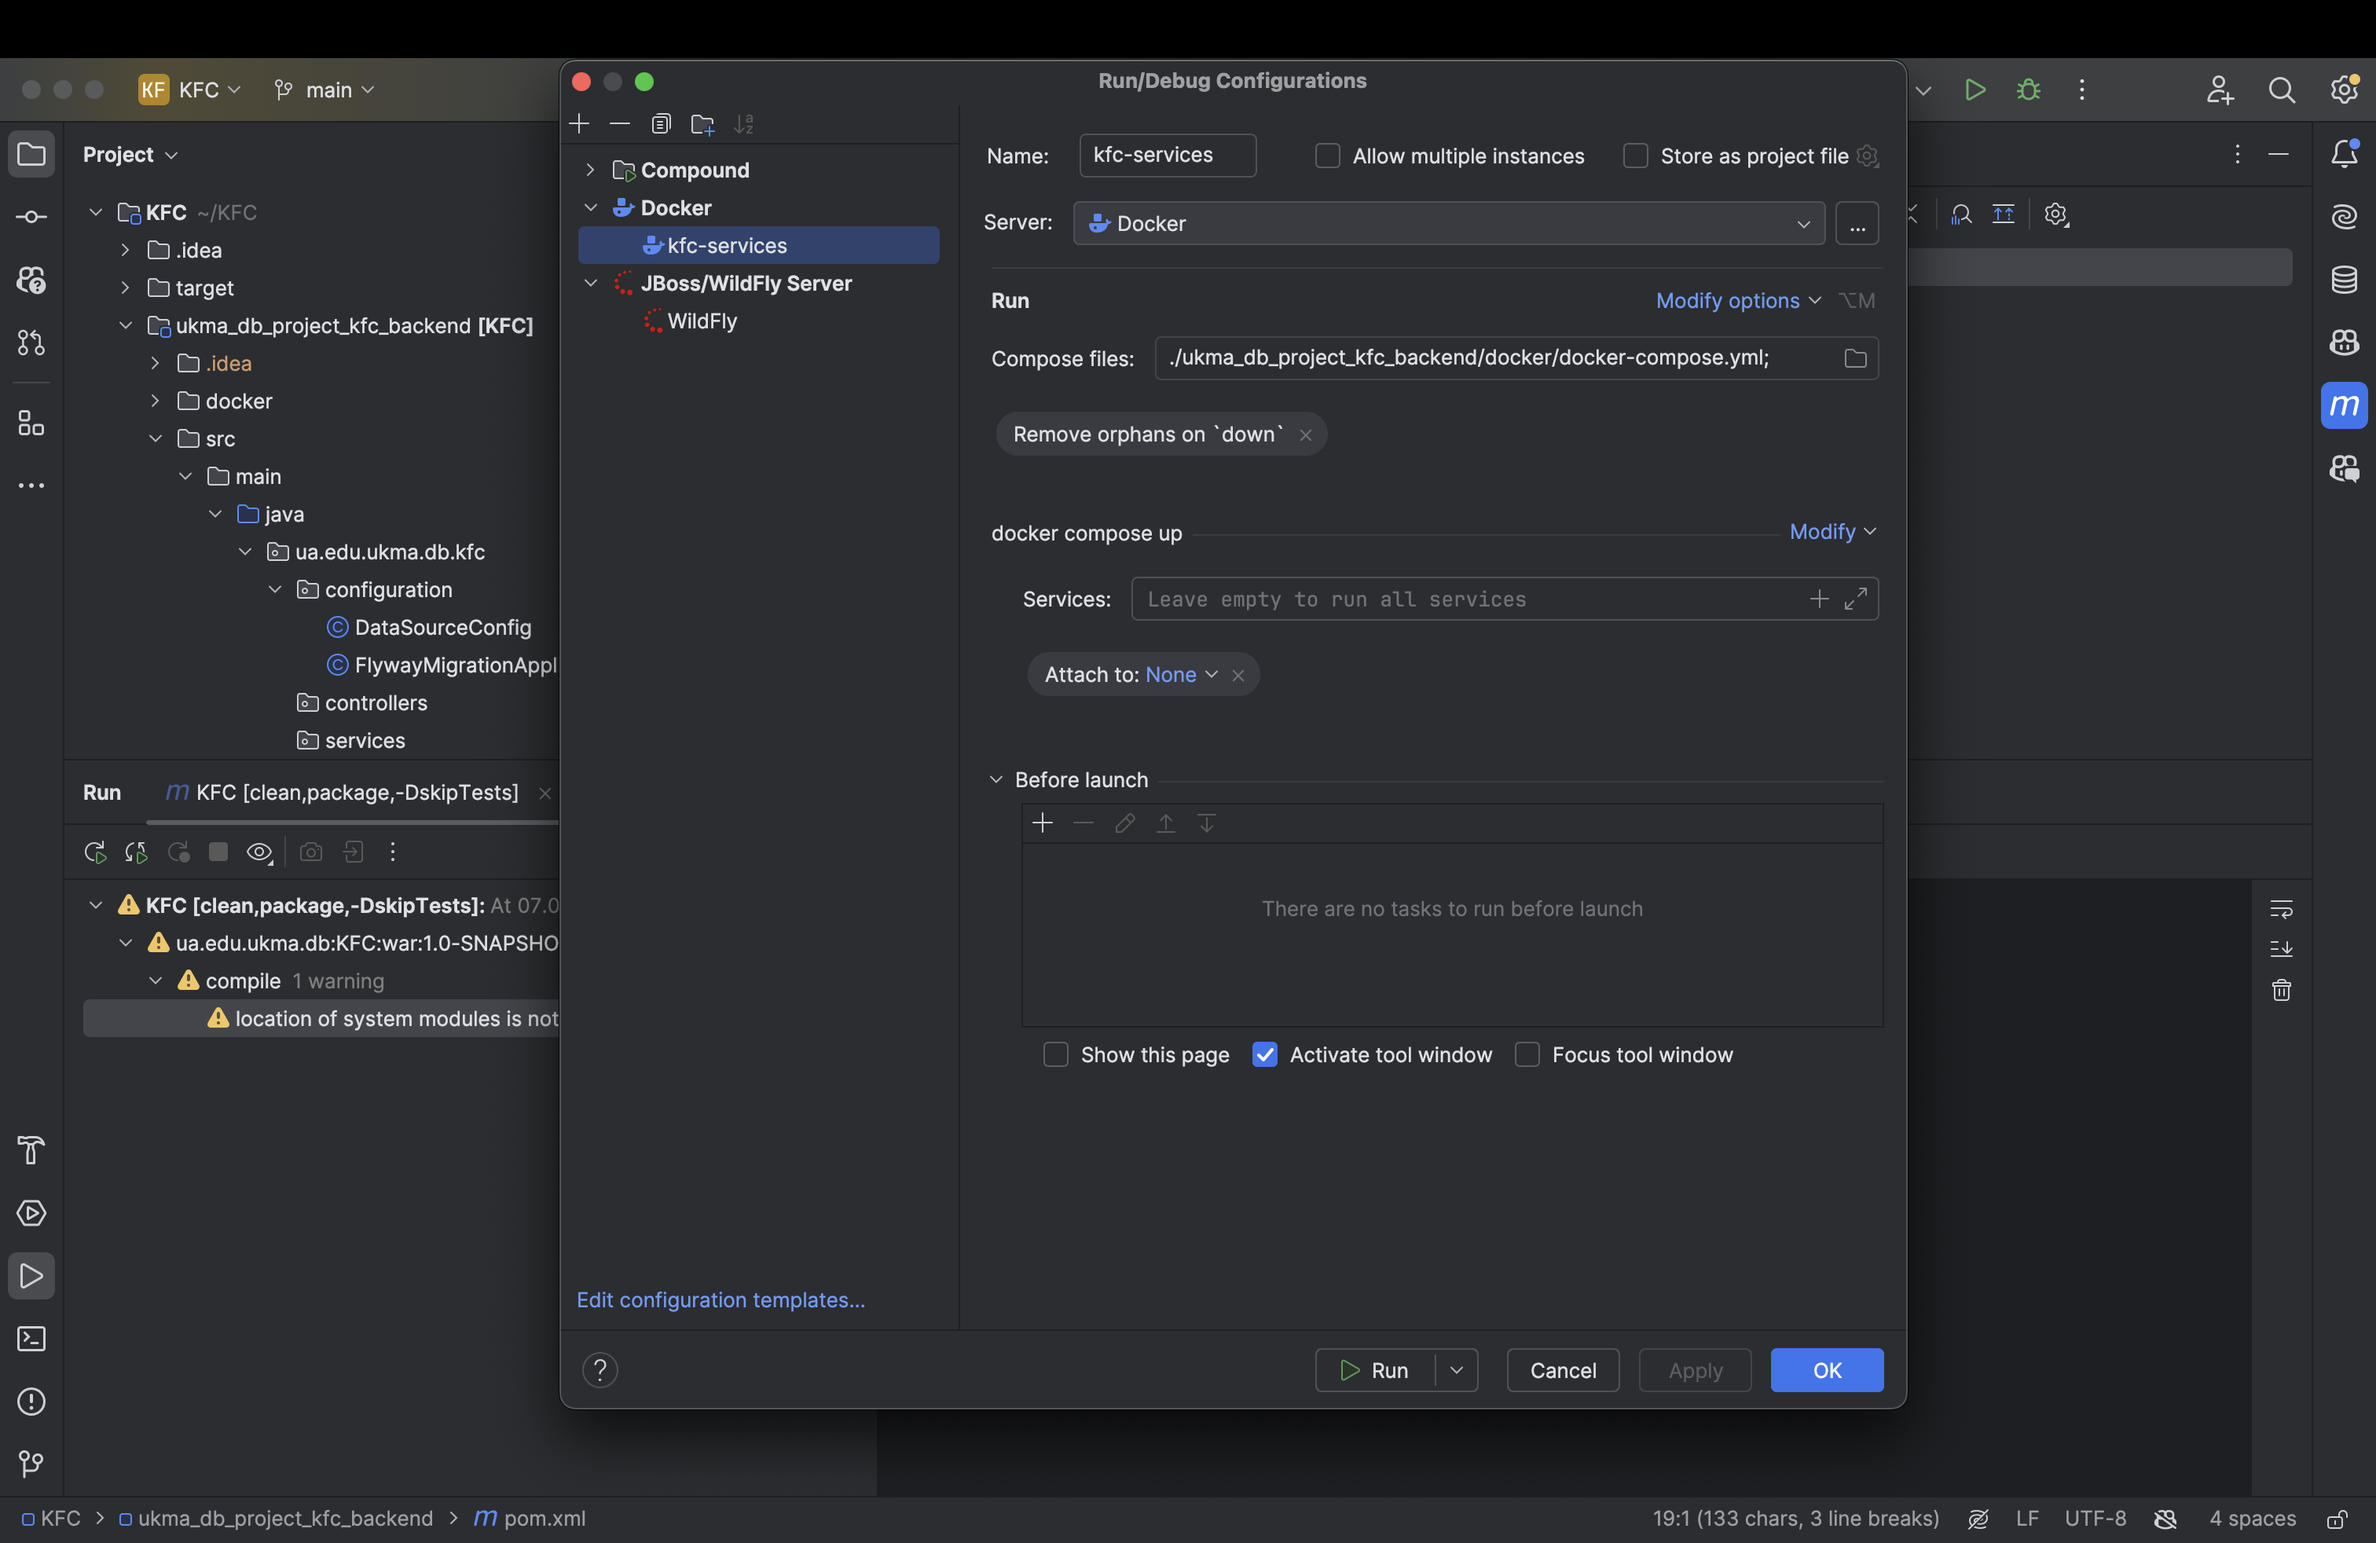
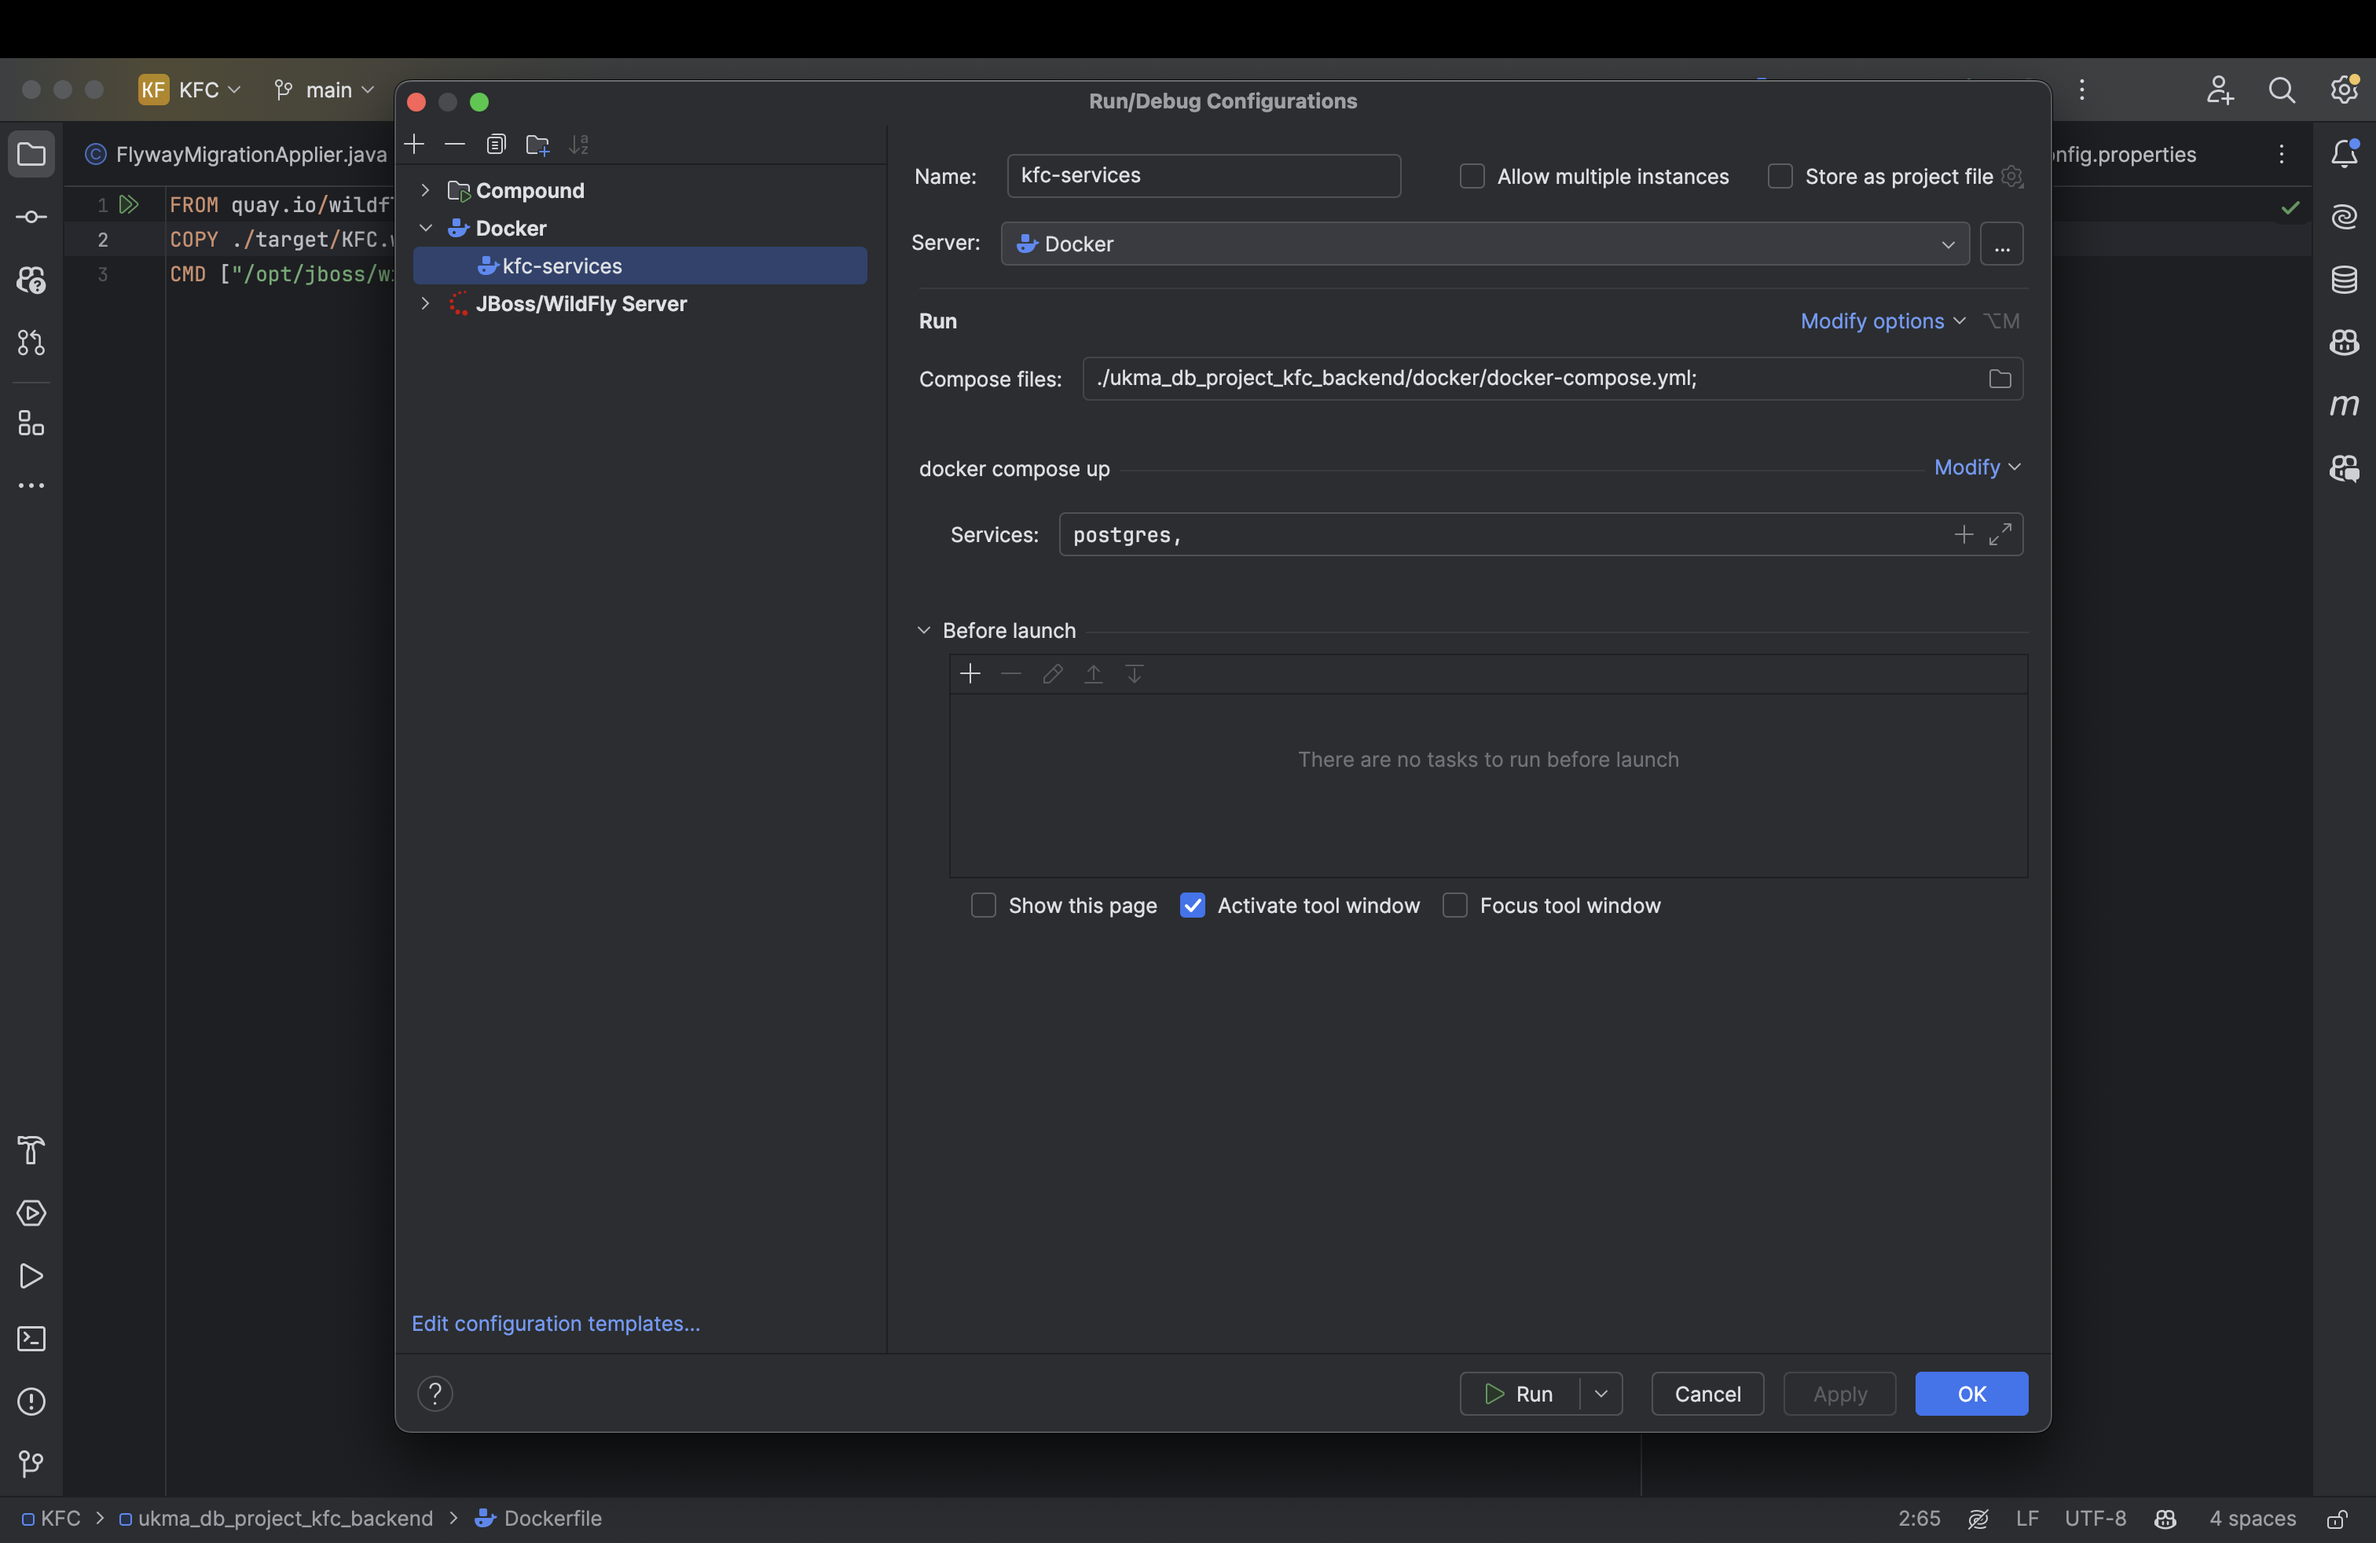
Update docker guide

diff --git a/README.md b/README.md
@@ -4,12 +4,11 @@
 
 1. clone the project https://github.com/otipz19/ukma_db_project_kfc_backend
 
-2. add Idea docker configuration
-![add_idea_docker_config.png](readme%2Fimages%2Fadd_idea_docker_config.png)
-
 3. login to github container registry docker login ghcr.io
 
-4. run docker configuration
+4. go to docker/ subfolder
+
+5. run docker compose up --pull=always docker/
 
 ## WildFly guide v1:
 
